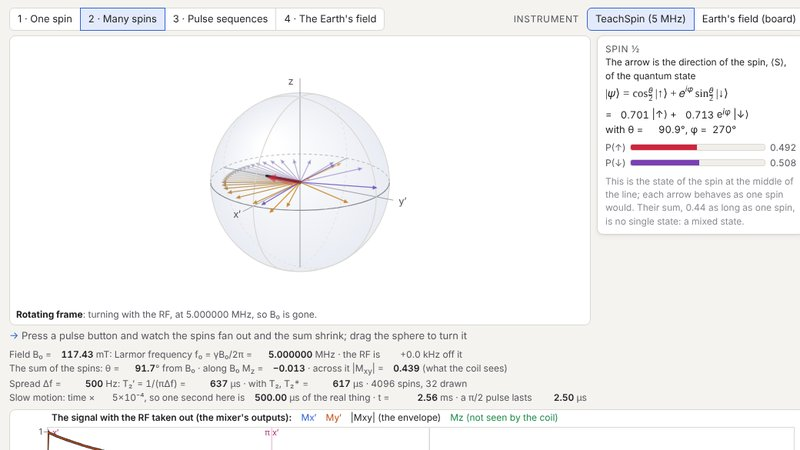
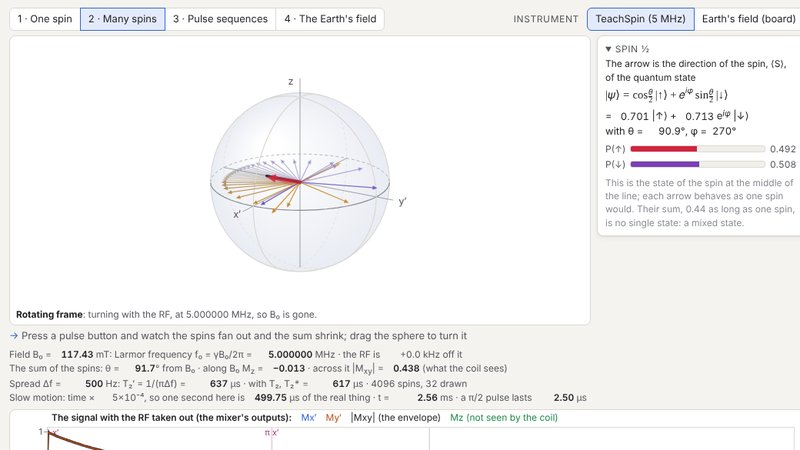
NMR: still pictures of the nineteen experiments, and the card remade
nmr/frames.json brings each experiment to its moment through __app's hooks (hold, then step,
runTo, runBoard, finishScan or finishBoardScan; noise runs its second run, the one the help
quotes), and crops the pictures that carry it: the sphere with the coil's voltage or the mixer's
outputs in views 1 and 2, the sphere and the fitted curve with the signal in view 3, the
board's cycle and the FID at OUT, the slanted coil's cone, the tank's Bode plot tuned, off on
another field and 55 Hz off, the T₁ curve, the spectrum.  The spectrum lies below the first
screen in view 4, so for those two pictures the sphere's row is hidden first.  19 pictures,
356 kB.  The card (#setup=echo) is remade for the spin-½ box's new fold marker.

Claude-Session: https://claude.ai/code/session_01Uf588EmEoW67UxQKckEGyR

Changed region(s): [[0.75, 0.0933, 1.0, 0.5289], [0.3125, 0.3733, 0.375, 0.4667], [0.3125, 0.8711, 0.375, 0.9022]]

diff --git a/nmr/index.html b/nmr/index.html
@@ -96,7 +96,7 @@
     of the TeachSpin (5 MHz) or of the board (2 kHz).</p>
   </section>
 
-  <article class="exp" data-setup="larmor">
+  <article class="exp" data-setup="larmor" data-frame="720x419">
     <h3>1. The spin goes round the field at the Larmor frequency</h3>
     <p>One spin, tipped 45° from the field $B_0$, seen in the lab.  It goes round $B_0$ at the
     Larmor frequency $f_0=\gamma B_0/2\pi$, with $\gamma/2\pi=42.577$ MHz/T for a proton:
@@ -107,7 +107,7 @@
     as big as the part of the arrow across the field, $|M_{xy}|$.</p>
   </article>
 
-  <article class="exp" data-setup="pulse90">
+  <article class="exp" data-setup="pulse90" data-frame="720x419">
     <h3>2. A π/2 pulse tips the spin over, and the coil starts to ring</h3>
     <p>The arrow starts along $B_0$, with nothing across it and no signal.  A pulse of RF at the
     Larmor frequency turns it down to the equator.  In the lab it spirals down, twelve and a
@@ -118,7 +118,7 @@
     quarter turn takes it to the bottom, and the ringing stops.</p>
   </article>
 
-  <article class="exp" data-setup="rotating">
+  <article class="exp" data-setup="rotating" data-frame="720x548">
     <h3>3. The rotating frame: the same pulse without the spinning</h3>
     <p>Turn with the RF, at the Larmor frequency, and $B_0$ is gone: in this frame nothing
     moves the spin but $B_1$, which stands still along $x'$.  The spiral of experiment 2 becomes
@@ -128,7 +128,7 @@
     goes to $-x'$.  The axis of a pulse is the phase of its RF.</p>
   </article>
 
-  <article class="exp" data-setup="offres">
+  <article class="exp" data-setup="offres" data-frame="720x548">
     <h3>4. Off resonance: the pulse misses, and the mixer beats</h3>
     <p>The RF is 50 kHz above the Larmor frequency, half the rate $\gamma B_1/2\pi=100$ kHz at
     which $B_1$ turns the spin.  In the frame of the RF, $B_0$ is no longer quite cancelled:
@@ -140,7 +140,7 @@
     RF's frequency until the mixer stops beating.</p>
   </article>
 
-  <article class="exp" data-setup="spread">
+  <article class="exp" data-setup="spread" data-frame="720x561">
     <h3>5. Many spins: the signal dies, though no spin does</h3>
     <p>A real sample is many spins, and the magnet's field is not quite the same through it,
     so their frequencies spread, here over $\Delta f=500$ Hz (the full width of a Lorentzian).
@@ -151,7 +151,7 @@
     500 Hz wide at half power: $1/(\pi T_2^*)$.</p>
   </article>
 
-  <article class="exp" data-setup="echo">
+  <article class="exp" data-setup="echo" data-frame="720x463">
     <h3>6. The spin echo: a π pulse brings the signal back</h3>
     <p>As in experiment 5, with a π pulse about $x'$ at $\tau=1.5$ ms, when the fan has spread
     all the way round.  It flips the fan over: the faster spins are now behind by as much as
@@ -162,7 +162,7 @@
     pulls the sum's $M_z$ back up all the while: 0.08 by 5 ms.</p>
   </article>
 
-  <article class="exp" data-setup="cpmg">
+  <article class="exp" data-setup="cpmg" data-frame="720x531">
     <h3>7. T₂ from a train of echoes</h3>
     <p>A π/2 pulse, then sixteen π pulses about $y'$, at $\tau$, $3\tau$, $5\tau$… with
     $\tau=2$ ms.  Each refocuses the fan, so an echo comes every 4 ms, out to 64 ms, and the
@@ -172,7 +172,7 @@
     (1958): the π pulses about $y'$, along the spins, not about $x'$.</p>
   </article>
 
-  <article class="exp" data-setup="mg">
+  <article class="exp" data-setup="mg" data-frame="720x531">
     <h3>8. Why Meiboom and Gill: pulses that are slightly wrong</h3>
     <p>The same train with the π pulses about $x'$ (Carr–Purcell), and every pulse 10% too
     long: a π that is really 198°, as a width set by hand can be.  About $x'$ each pulse's error
@@ -182,7 +182,7 @@
     pulse, −10%, fails the same way about $x'$ (10.6 ms).</p>
   </article>
 
-  <article class="exp" data-setup="ir">
+  <article class="exp" data-setup="ir" data-frame="720x240">
     <h3>9. T₁ by inversion recovery</h3>
     <p>A π pulse turns $M$ to $-z$; it climbs back with $T_1$, as $1-2e^{-\tau/T_1}$; a π/2 at
     $\tau$ tips what it has reached over, and the FID's start reads it, with its sign on the
@@ -195,7 +195,7 @@
     folds the curve up at the null.)</p>
   </article>
 
-  <article class="exp" data-setup="noise">
+  <article class="exp" data-setup="noise" data-frame="720x531">
     <h3>10. Noise, and averaging it away</h3>
     <p>An FID with thermal noise: a signal-to-noise ratio of 5, so the noise is 0.20 of the full
     signal, r.m.s.  Repeat and average: the signal is the same each time and adds up, the noise
@@ -207,7 +207,7 @@
     make the FID look longer.</p>
   </article>
 
-  <article class="exp" data-setup="board">
+  <article class="exp" data-setup="board" data-frame="720x201">
     <h3>11. The Earth's-field board: polarize, switch off, listen</h3>
     <p>No magnet and no RF pulse.  A litre of water sits in a coil whose axis lies across the
     Earth's field (east–west).  For 3 s a current of 1.5 A makes 7.84 mT along the coil, 170
@@ -221,7 +221,7 @@
     receiver's noise.  Press <em>Hear it</em>: OUT, as the board's headphones give it.</p>
   </article>
 
-  <article class="exp" data-setup="adiabatic">
+  <article class="exp" data-setup="adiabatic" data-frame="720x201">
     <h3>12. Sudden or adiabatic: switch it off slowly and nothing rings</h3>
     <p>The same, with the current switched off in 300 ms instead of 0.4.  As it falls, the
     total field turns from the coil's axis to the Earth's; slowly enough, the spins follow it
@@ -233,7 +233,7 @@
     0.4 ms, and be wrong.  Watch the sphere through the switch-off at each speed.</p>
   </article>
 
-  <article class="exp" data-setup="angle">
+  <article class="exp" data-setup="angle" data-frame="393x331">
     <h3>13. Which way to lay the coil: the FID goes as sin² of its angle to the field</h3>
     <p>Here the coil lies level, pointing north–south.  In Claremont the field dips 58.9° below
     the horizontal towards magnetic north, so the coil's axis is at $\alpha=58.9°$ to $B_E$.  The
@@ -254,7 +254,7 @@
     which way round the coil is wired matters a little.)</p>
   </article>
 
-  <article class="exp" data-setup="tune">
+  <article class="exp" data-setup="tune" data-frame="359x331">
     <h3>14. Tune the tank to the protons</h3>
     <p>The coil and the capacitors that the eight switches of SW1 put across it make a resonant
     circuit, a tank: it multiplies the FID by $|H|$, up to $Q=\omega L/R=37$ at its resonance
@@ -270,7 +270,7 @@
     ×30.9 (3 4 7): each step of 3.3 nF moves the tank 13 Hz.</p>
   </article>
 
-  <article class="exp" data-setup="elsewhere">
+  <article class="exp" data-setup="elsewhere" data-frame="359x331">
     <h3>15. Another place: the protons slide off the tank</h3>
     <p>The board, tuned in Claremont, taken where the Earth's field is 50.0 μT, as further north.
     The protons are now at 2129 Hz, 173 Hz above the tank, more than three of its widths: on the
@@ -283,7 +283,7 @@
     that needs the switches reset.</p>
   </article>
 
-  <article class="exp" data-setup="tanknoise">
+  <article class="exp" data-setup="tanknoise" data-frame="359x331">
     <h3>16. The tank narrows the noise band</h3>
     <p>Here the tank is tuned 55 Hz below the protons (switches 1 2 3 4 7).  The coil's 8.9 Ω has
     thermal noise, $\sqrt{4kTR}$ = 0.38 nV/√Hz, in series with the EMF, so the tank multiplies it
@@ -301,7 +301,7 @@
     0.5 Hz there is little noise.)</p>
   </article>
 
-  <article class="exp" data-setup="t1board">
+  <article class="exp" data-setup="t1board" data-frame="265x331">
     <h3>17. T₁ from the polarizing time</h3>
     <p>The FID's start is the magnetization built while the current flowed, $1-e^{-t_p/T_1}$.
     <em>Measure T₁</em> runs the cycle polarizing for 0.2 to 4.7 s, the board's range, and fits
@@ -310,7 +310,7 @@
     0.3 s, so the FID reaches full size within a second of polarizing.</p>
   </article>
 
-  <article class="exp" data-setup="field">
+  <article class="exp" data-setup="field" data-frame="513x134">
     <h3>18. The Earth's field to a nanotesla</h3>
     <p>Listening for 4.8 s, the spectrum's line is 0.37 Hz wide, $1/(\pi T_2^*)$, and its peak
     falls at 1959.82 Hz: $B=f/42.577$ Hz/μT = 46 030.0 nT, the field that was set.  One
@@ -321,7 +321,7 @@
     only ×5.3 there (experiment 15).</p>
   </article>
 
-  <article class="exp" data-setup="steel">
+  <article class="exp" data-setup="steel" data-frame="720x222">
     <h3>19. A steel tool nearby</h3>
     <p>Steel near the coil bends the field, so it differs across the bottle: 100 nT here, not
     5.  The protons' frequencies spread over 4.26 Hz, $T_2'=1/(\pi\Delta f)$ falls from 1.5 s to
